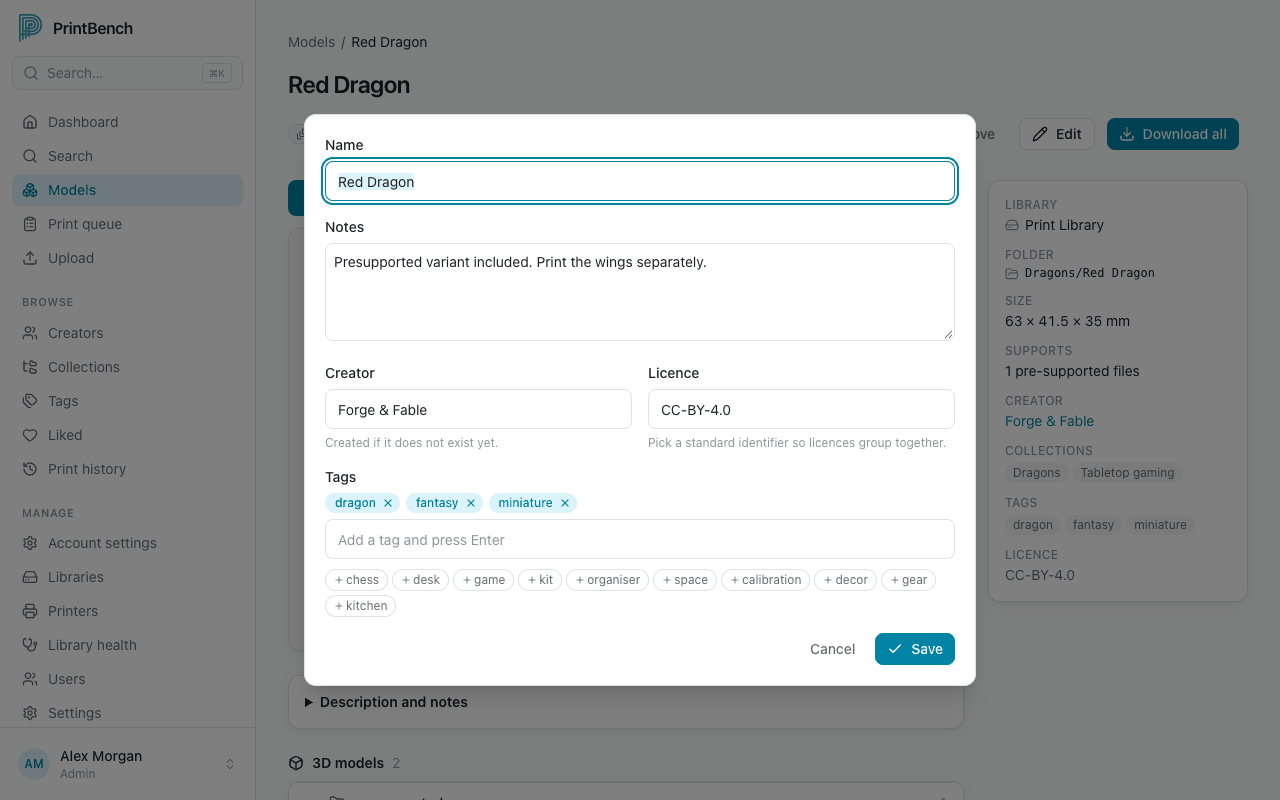
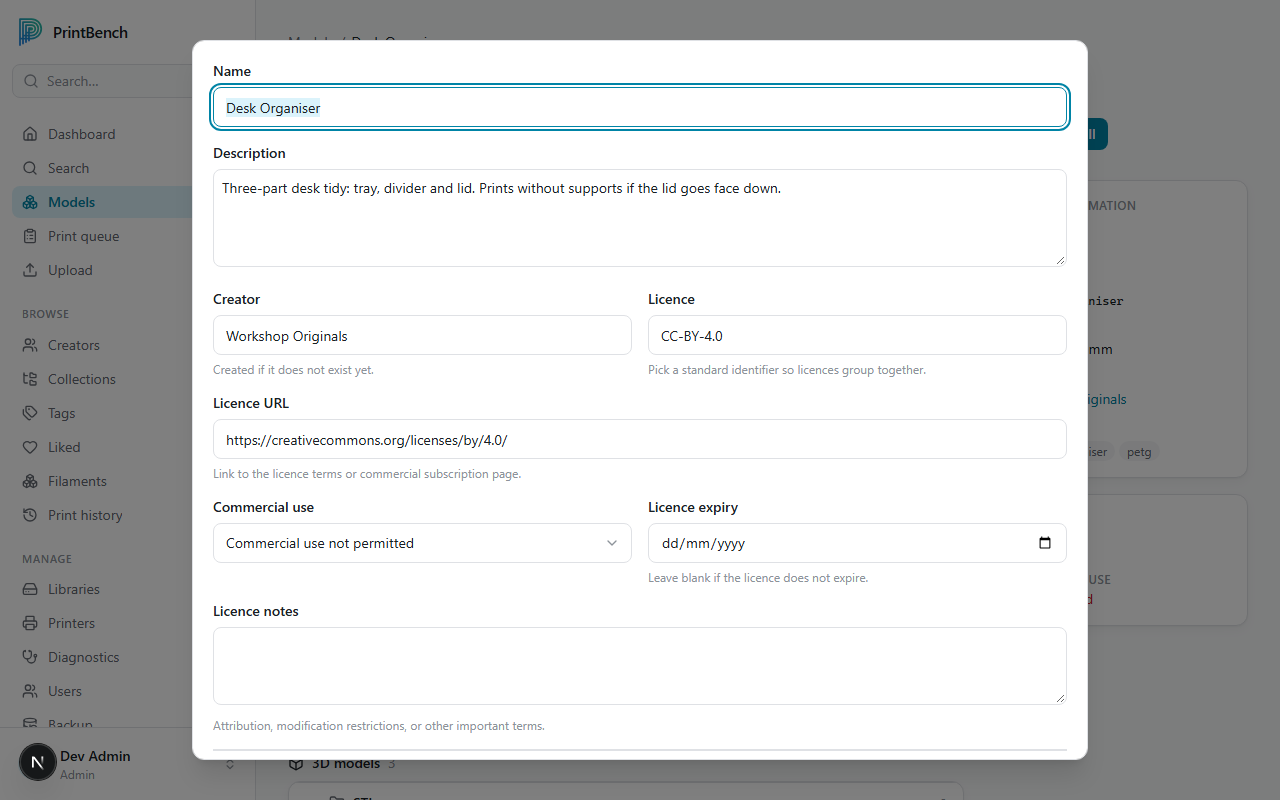
docs: screenshot the notes section, and the renamed field
The edit dialog's image still read Notes where the app now says Description,
which was the one place the text and the picture actually disagreed. The notes
section had no image at all; the new one shows both states the prose
describes, a note naming a print and a note naming none.

diff --git a/docs/guide/models.md b/docs/guide/models.md
@@ -49,7 +49,7 @@ Files are shown as a collapsible directory tree, with 3MF files listed first. Ea
 
 Members can edit a model's details:
 
-![The edit dialog with name, description, creator, licence and tags](/images/guide/model-edit.png)
+![The edit dialog with name, description, creator and licence](/images/guide/model-edit.png)
 
 | Field | Notes |
 | --- | --- |
@@ -68,6 +68,8 @@ Models imported from a model site (or whose 3MF carries a recognised MakerWorld 
 ### Notes
 
 **Notes** is the model's working log: what went wrong, what fixed it, what to do differently next time. Each note keeps its author and the date it was written, newest first, and nothing overwrites what came before.
+
+![Two notes on a model, one of them naming the print it is about](/images/guide/model-notes.png)
 
 > First one warped off the bed at 40mm. Raised the bed to 65 and added a brim; second came out clean.
 
